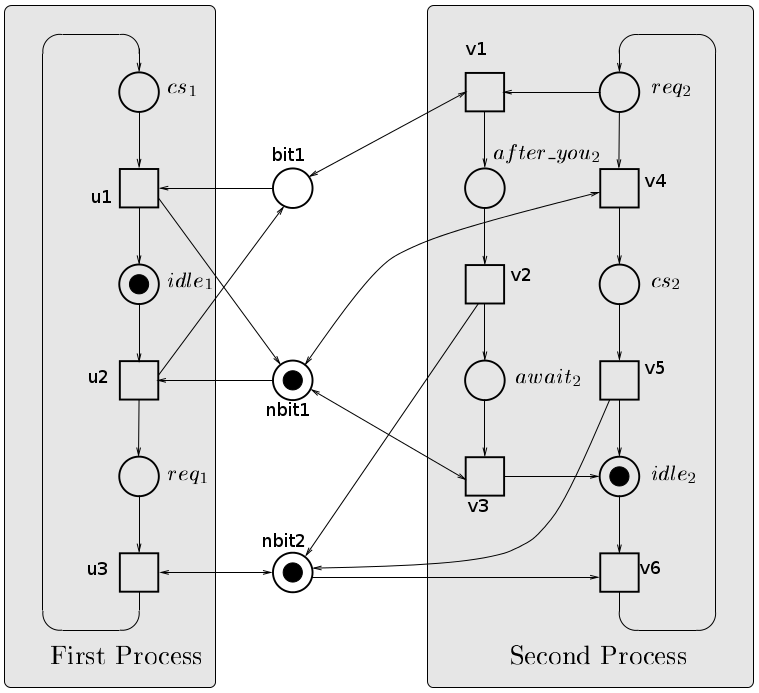
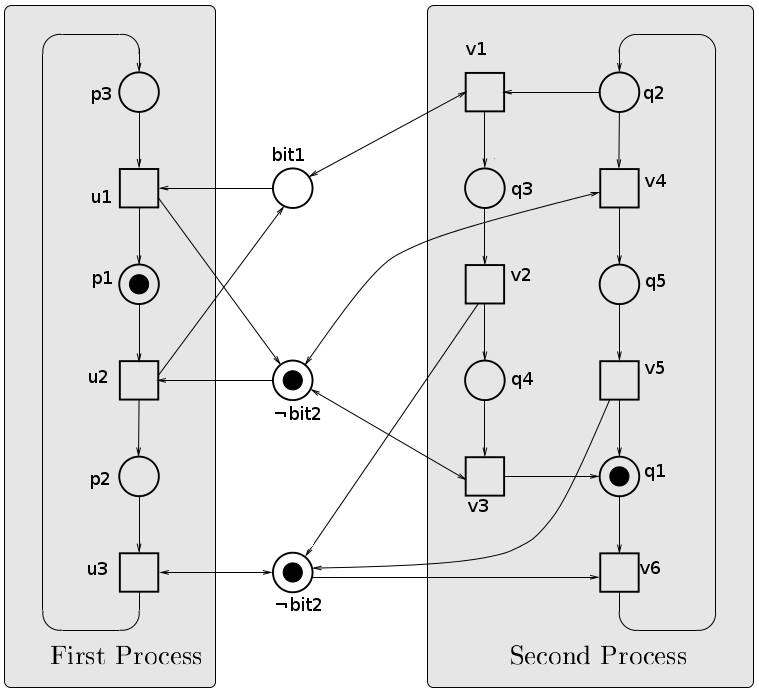
Changed labels of code and net

diff --git a/paper/workspace/main.tex b/paper/workspace/main.tex
@@ -76,26 +76,26 @@ We present the method Safety by example on Lamport's 1-bit algorithm [Esparza199
 
 Process 1:
 
-bit1 := false
-while true do
-  bit1 := true
-  a: while bit2 do skip od
-  b: <critical section>
-  bit1 := false
-od
+    bit1 := false
+    while true do
+p1:   bit1 := true
+p2:   while bit2 do skip od
+p3:   <critical section>
+      bit1 := false
+    od
 
 Process 2:
 
-bit2 := false
-while true do
-  l: bit2 := true
-  if bit1 then
     bit2 := false
-    while bit1 do skip od
-    goto l
-  fi
-  <critical section>
-  bit2 := false
+    while true do
+q1:   bit2 := true
+q2:   if bit1 then
+q3:     bit2 := false
+q4:     while bit1 do skip od
+        goto q1
+      fi
+q5:   <critical section>
+      bit2 := false
 od
 
 * Property: Process 1 and Process 2 are never in their respective critical section at the same time.
@@ -118,7 +118,7 @@ od
 \begin{tikzpicture}[node distance=2cm]
   \node[place, tokens=1, label=left:a] (a) {};
   \node[place, tokens=0, label=left:b, below of=a] (b) {};
-  \node[place, tokens=0, label=right:nbit2, right of=b, xshift=-1cm, yshift=+1cm] (nbit2) {};
+  \node[place, tokens=0, label=right:$\neg bit2$, right of=b, xshift=-1cm, yshift=+1cm] (nbit2) {};
   \node[transition, label=left:t1, above of=a, yshift=-1cm] (t1) {}
     edge [pre, bend left, min distance=2cm, out=225, in=-45] (b)
     edge [post] (a);
